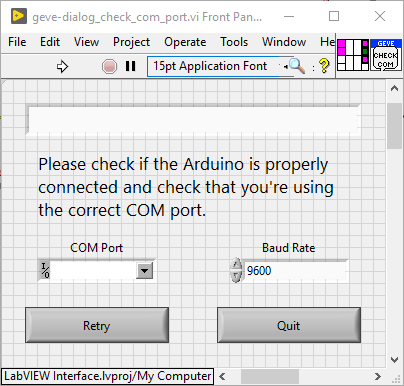
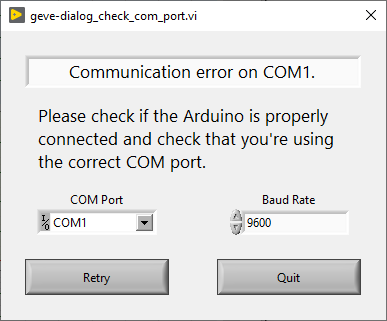
Update README.md with small type corrections and proper pop-up dialog image.

diff --git a/README.md b/README.md
@@ -171,7 +171,7 @@ If **1.** the Arduino is not connected or **2.** the Arduino is now connected to
 In the code, these errors crop up with different error numbers and may each be handled slightly differently, if only for the logging text.
 We're showing the _Not Connected_ case here as one example.
 
-![Error_connect_dialog.png](doc/images/Error_connect_dialog.png "Custom pop-up dialog with connection settings")
+![Error_connect_dialog.png](doc/images/Error_connect_dialog.png#center "Custom pop-up dialog with connection settings")
 
 ![Error_not_connected.png](doc/images/Error_not_connected.png "Error handler case: Not Connected")
 
@@ -197,7 +197,7 @@ A quick word on putting everything together: The "Design Pattern" we went for he
 
 ![QMH_Overview.png](doc/images/QMH_Overview.png "Basic Queued Message Handler")
 
-Typically, a _Master_ or _GUI Loop_ produces data or commands for a _Worker Loop_ to execute at it's own pace. In this case, the _Worker Loop_ keeps sending a series of Messages (a 'Macro') to itself when idle to read from the Arduino indefinitely until the user closes the Front Panel window. 
+Typically, a _Master Loop_ or _GUI Loop_ produces data or commands for a _Worker Loop_ to execute at it's own pace. In this case, the _Worker Loop_ keeps sending a series of Messages (a 'Macro') to itself when idle to read from the Arduino indefinitely until the user closes the Front Panel window. 
 
 ![Message_Macro_Read.png](doc/images/Message_Macro_Read.png "Idle Case Message Macro")
 
